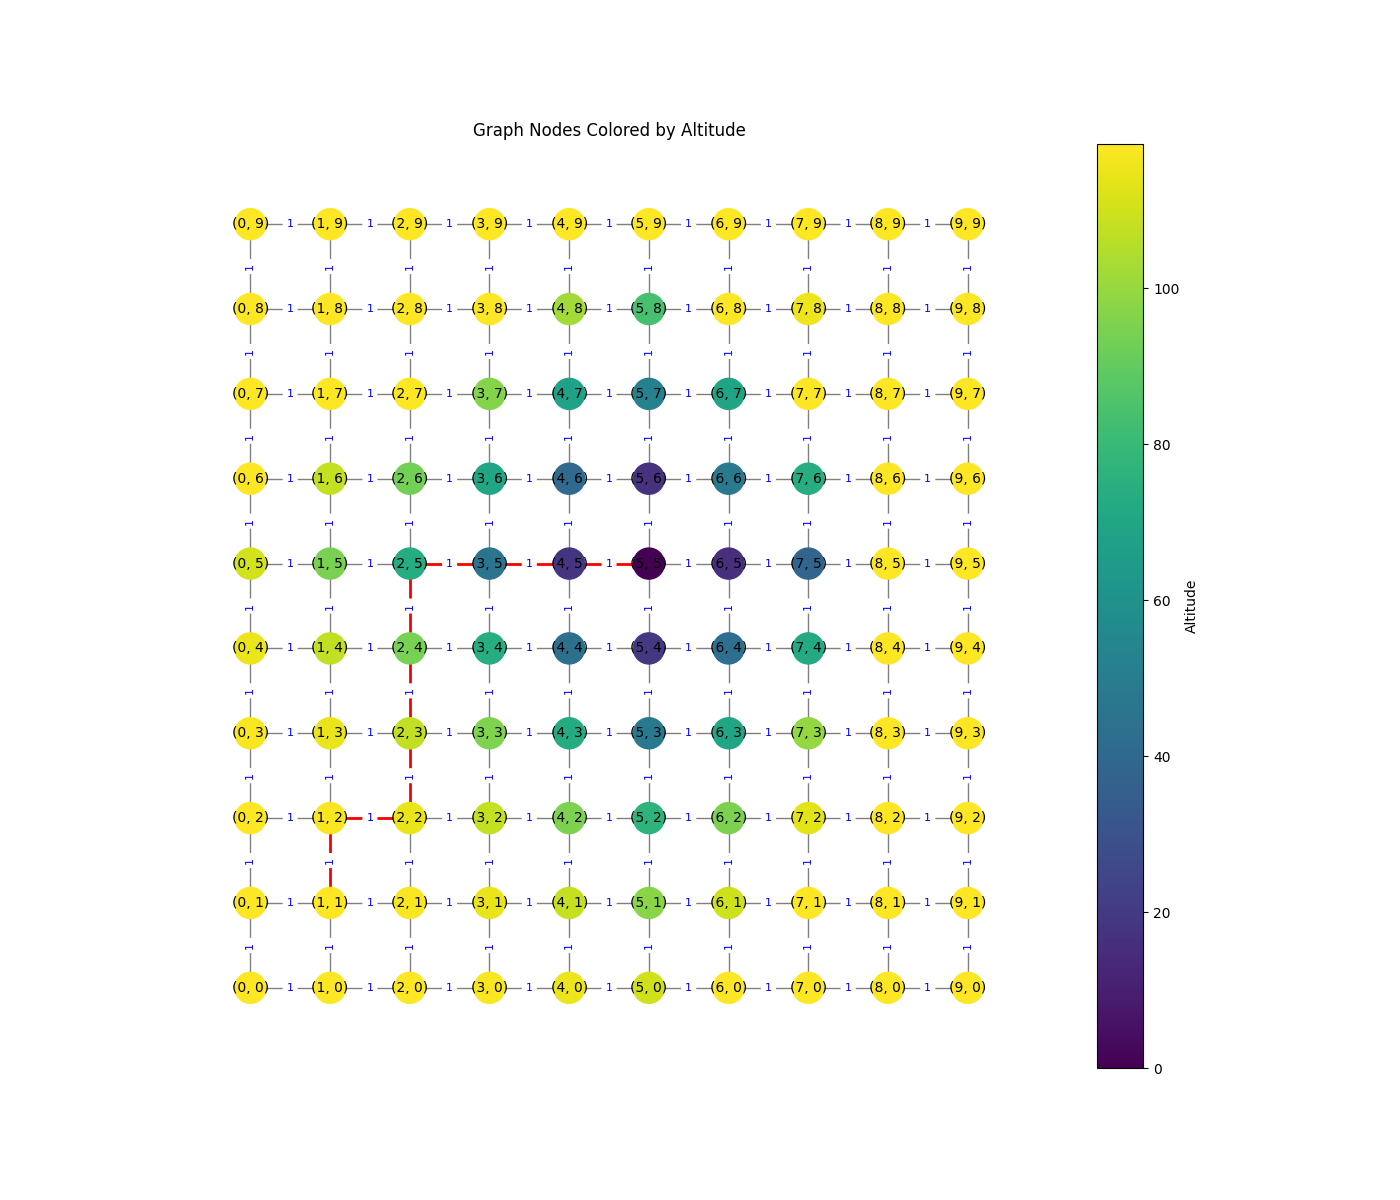
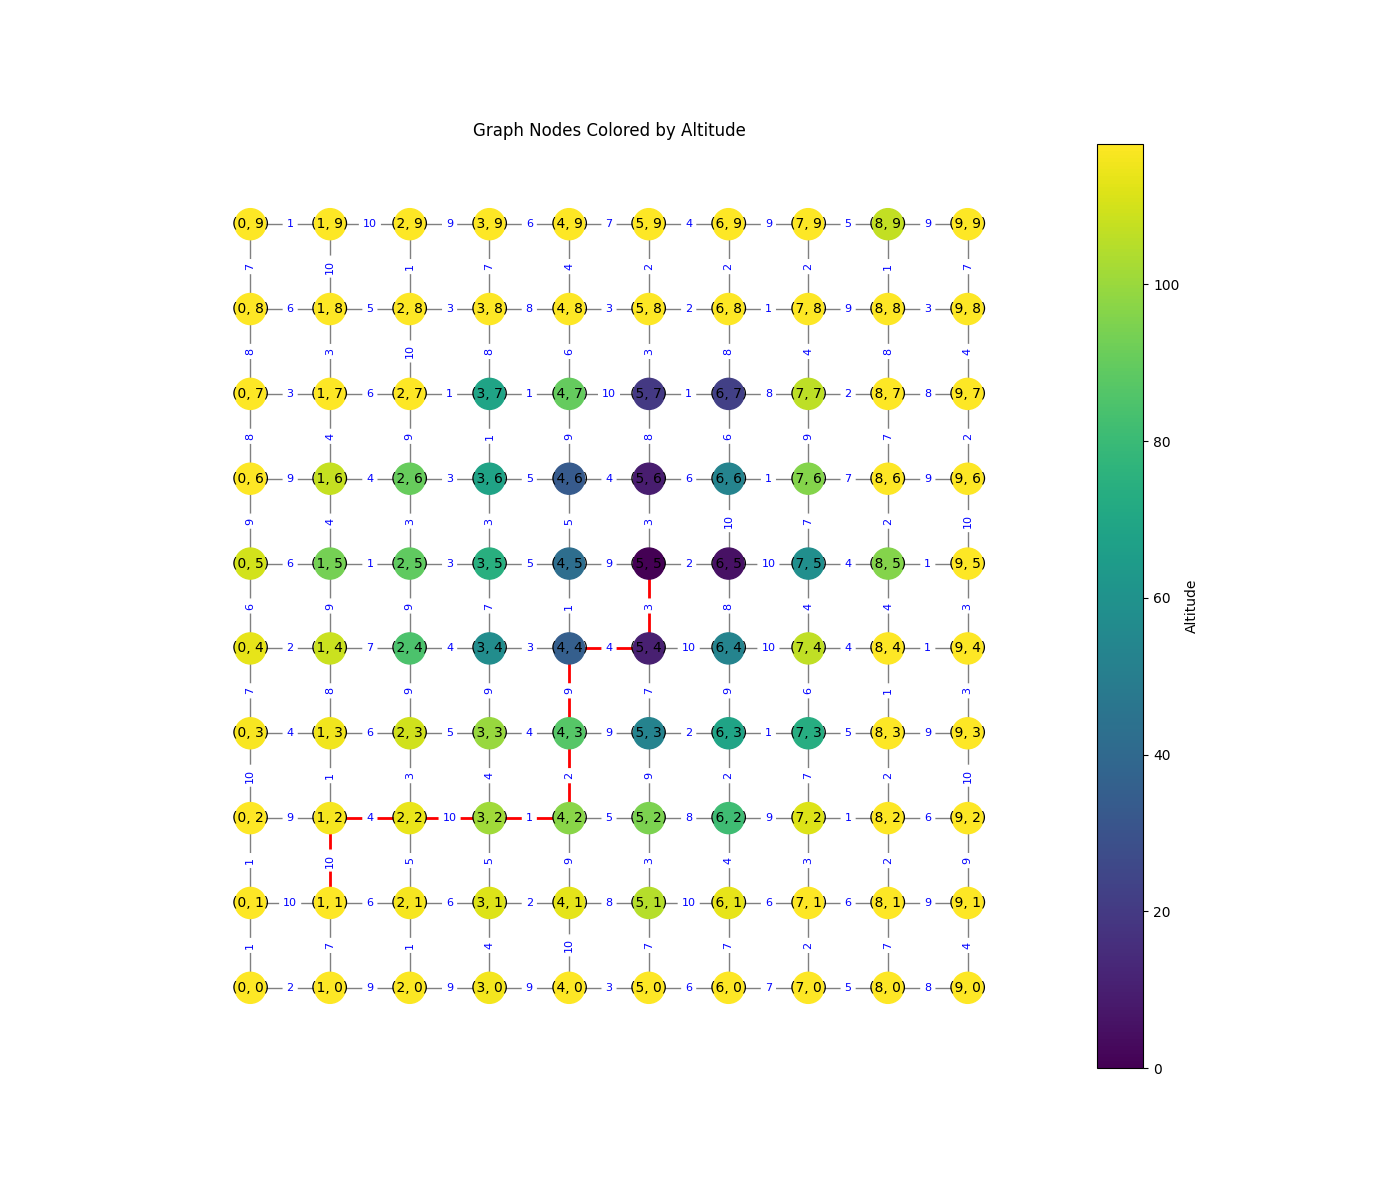
Minor adjustments

diff --git a/rfd.py b/rfd.py
@@ -1,3 +1,19 @@
+'''
+Dependencies:
+    * networkx
+    * matplotlib
+
+Description:
+    This script implements the River Formation Dynamics (RFD) algorithm for finding optimal paths on a graph. 
+    It simulates water flow and erosion to reinforce paths from an origin node to a destination node. 
+    The algorithm is applied to a 2D grid graph and generates 2 images: graph.png and path_altitude.png.
+    These images visualize the optimal path as identified by algorithm.
+    By default, random weights are assigned to the edges of the graph on each execution.
+
+Execute:
+    python rdf.py
+'''
+
 import random
 from typing import Any
 from typing import Hashable
@@ -9,25 +25,34 @@ import networkx as nx
 
 
 class RFD:
-    def __init__(self, graph: nx.Graph, in_node: Hashable, out_node: Hashable) -> None:
+    def __init__(
+        self,
+        graph: nx.Graph,
+        origin: Hashable,
+        destination: Hashable,
+        n_iter: int | None = None,
+    ) -> None:
         """
         Initialize the River Formation Dynamics (RFD) algorithm.
 
         Args:
             graph (nx.Graph): The input graph.
-            in_node (Hashable): The starting node.
-            out_node (Hashable): The destination node.
+            origin (Hashable): The starting node.
+            destination (Hashable): The destination node.
         """
         self.graph = graph
-        self.in_node = in_node
-        self.out_node = out_node
+        self.origin = origin
+        self.destination = destination
+        self.n_nodes = len(graph.nodes)
 
-        self.altitude_max = 100
+        self.altitude_start = 100
         self.default_weight = 1
         self.climbing_param = 1
+        self.climbing_param_increment = 0.2
+        self.climbing_param_increment_every = 5
         self.n_drops = 100
         self.erosion_param = 20
-        self.n_season_stop = 75
+        self.n_iterations = int((3 / 2) * self.n_nodes) if n_iter is None else n_iter
 
         self.droplets = {}
         self.erosions = {}
@@ -36,10 +61,10 @@ class RFD:
     def initialise_altitudes(self) -> None:
         """
         Initialize the altitudes of all nodes in the graph.
-        Sets self.altitude_max for all nodes except the out_node, which is set to 0.
+        Sets self.altitude_start for all nodes except the destination, which is set to 0.
         """
-        attrs = {node: {"altitude": self.altitude_max} for node in self.graph.nodes()}
-        attrs[self.out_node] = {"altitude": 0}
+        attrs = {node: {"altitude": self.altitude_start} for node in self.graph.nodes()}
+        attrs[self.destination] = {"altitude": 0}
 
         nx.set_node_attributes(self.graph, attrs)
 
@@ -47,7 +72,9 @@ class RFD:
         """
         Initialize edge weights (distances) in the graph.
         """
-        attrs = {edge: {"distance": self.default_weight} for edge in self.graph.edges()}
+        attrs = {
+            edge: {"distance": random.randint(1, 10)} for edge in self.graph.edges()
+        }
 
         nx.set_edge_attributes(self.graph, attrs)
 
@@ -114,21 +141,21 @@ class RFD:
             return 0
 
         if gradient == 0:
-            return self.erosion_param / ((len(self.graph.nodes) - 1) * self.n_drops)
+            return self.erosion_param / ((self.n_nodes - 1) * self.n_drops)
 
         return (
             abs(self.gradient(node_i, node_j))
             * self.erosion_param
-            / ((len(self.graph.nodes) - 1) * self.n_drops)
+            / ((self.n_nodes - 1) * self.n_drops)
         )
 
     def place_droplets(self) -> None:
         """
-        Place droplets at the starting node (in_node).
+        Place droplets at the starting node (origin).
         """
-        self.droplets = {idx: self.in_node for idx in range(len(self.graph.nodes))}
+        self.droplets = {idx: self.origin for idx in range(self.n_nodes)}
 
-    def move(self, droplet_id: int):
+    def move(self, droplet_id: int) -> None:
         """
         Move a droplet to a neighboring node based on transition probabilities.
 
@@ -136,7 +163,7 @@ class RFD:
             droplet_id (int): The droplet ID.
         """
         current_node = self.droplets[droplet_id]
-        if current_node == self.out_node:
+        if current_node == self.destination:
             return
 
         transition_probs = self.transition_probabilities(current_node)
@@ -150,28 +177,31 @@ class RFD:
                 self.erosions[current_node] = self.erosion(current_node, neighbor)
                 break
 
-    def erode(self):
+    def erode(self) -> None:
         """
         Apply erosion to nodes based on droplets' movements.
         """
         for node, erosion in self.erosions.items():
-            if node == self.out_node:
+            if node == self.destination:
                 continue
 
             self.graph.nodes[node]["altitude"] -= erosion
 
-    def deposit_sediments(self):
+    def deposit_sediments(self) -> None:
         erosion_produced = sum(self.erosions.values())
 
         new_altitudes = {
-            node: {"altitude": self.graph.nodes[node]["altitude"] + erosion_produced/(len(self.graph.nodes) - 1) }
+            node: {
+                "altitude": self.graph.nodes[node]["altitude"]
+                + erosion_produced / (self.n_nodes - 1)
+            }
             for node in self.graph.nodes()
         }
-        new_altitudes[self.out_node] = {"altitude": 0}
+        new_altitudes[self.destination] = {"altitude": 0}
 
         nx.set_node_attributes(self.graph, new_altitudes)
 
-    def run(self, seasons: int = 1):
+    def run(self, seasons: int = 1) -> None:
         """
         Run the RFD algorithm for a specified number of seasons.
 
@@ -194,27 +224,27 @@ class RFD:
                 self.erode()
                 self.deposit_sediments()
 
-                if n % 5 == 0:
-                    self.climbing_param += 0.2
+                if n % self.climbing_param_increment_every == 0:
+                    self.climbing_param += self.climbing_param_increment
 
                 n += 1
 
-                if len(set(self.droplets.values())) == 1 or n == self.n_season_stop:
+                if len(set(self.droplets.values())) == 1 or n == self.n_iterations:
                     break
 
         self.find_optimal_altitude_path()
 
-    def find_optimal_altitude_path(self):
+    def find_optimal_altitude_path(self) -> list[tuple[int, int]]:
         """
-        Determine the optimal path from in_node to out_node based on altitude.
+        Determine the optimal path from origin to destination based on altitude.
 
         Returns:
             list: The optimal path as a sequence of nodes.
         """
-        current_node = self.in_node
+        current_node = self.origin
         self.optimal_altitude_path = [current_node]
 
-        while current_node != self.out_node:
+        while current_node != self.destination:
             neighbors = [
                 n
                 for n in self.graph.neighbors(current_node)
@@ -231,7 +261,7 @@ class RFD:
 
         return self.optimal_altitude_path
 
-    def path_cost(self, path: list[Hashable]):
+    def path_cost(self, path: list[Hashable]) -> float:
         """
         Calculate the total cost (sum of distances) of a given path.
 
@@ -244,11 +274,13 @@ class RFD:
         path_edges = list(zip(path[:-1], path[1:]))
         return sum(self.graph.edges[edge]["distance"] for edge in path_edges)
 
-    def plot_graph(self):
+    def plot_graph(self) -> None:
         """
         Plot the graph with nodes colored by altitude and the optimal path highlighted.
         """
-        altitudes = [self.graph.nodes[node].get("altitude") for node in self.graph.nodes()]
+        altitudes = [
+            self.graph.nodes[node].get("altitude") for node in self.graph.nodes()
+        ]
         pos = {node: node for node in self.graph.nodes()}
 
         norm = colors.Normalize(vmin=min(altitudes), vmax=max(altitudes))
@@ -274,7 +306,11 @@ class RFD:
             zip(self.optimal_altitude_path[:-1], self.optimal_altitude_path[1:])
         )
         nx.draw_networkx_edges(
-            self.graph, pos, edgelist=optimal_altitude_path_edges, edge_color="red", width=2
+            self.graph,
+            pos,
+            edgelist=optimal_altitude_path_edges,
+            edge_color="red",
+            width=2,
         )
 
         # Add the weights in the edges
@@ -292,7 +328,7 @@ class RFD:
 
         plt.savefig("graph.png")
 
-    def plot_optimal_path_altitude(self):
+    def plot_optimal_path_altitude(self) -> None:
         """
         Plot the altitude profile along the optimal path.
         """
@@ -310,15 +346,14 @@ class RFD:
         plt.grid(True, linestyle="--", alpha=0.7)
 
         plt.tight_layout()
-        
+
         plt.savefig("path_altitude.png")
 
 
 if __name__ == "__main__":
-    while True:
-        G = nx.grid_2d_graph(10, 10)
-        rfd = RFD(graph=G, in_node=(1,1), out_node=(5,5))
-        rfd.run(seasons=25)
-        rfd.plot_graph()
-        rfd.plot_optimal_path_altitude()
-        print(f"Optimal altitude path: {rfd.optimal_altitude_path}")
+    G = nx.grid_2d_graph(10, 10)
+    rfd = RFD(graph=G, origin=(1, 1), destination=(5, 5))
+    rfd.run(seasons=100)
+    rfd.plot_graph()
+    rfd.plot_optimal_path_altitude()
+    print(f"Optimal altitude path: {rfd.optimal_altitude_path}")

diff --git a/README.md b/README.md
@@ -1,0 +1,20 @@
+# River Formation Dynamics (RFD) Algorithm
+
+## About
+
+This project implements the River Formation Dynamics (RFD) algorithm to find optimal paths on a graph. 
+Inspired by the natural process of river formation, the algorithm simulates water flow and erosion to reinforce paths 
+from an origin node to a destination node. It is applied to a 2D grid graph and generates two output images:
+
+1. **graph.png**: Visualizes the graph with nodes colored by altitude and the optimal path highlighted.
+2. **path_altitude.png**: Displays the altitude profile along the optimal path.
+
+By default, random weights are assigned to the edges of the graph for each execution.
+
+## Setup
+
+* Clone or download the repository and navigate to its root directory: `cd .../river-formation-dynamics`
+* Ensure you have `pipenv` installed on your system. If not, you can install it with: `pip install pipenv`
+* Create a new virtual environment: `pipenv shell`
+* Install the dependencies: `pipenv install --ignore-pipfile`
+* Run the project: `python rfd.py`
